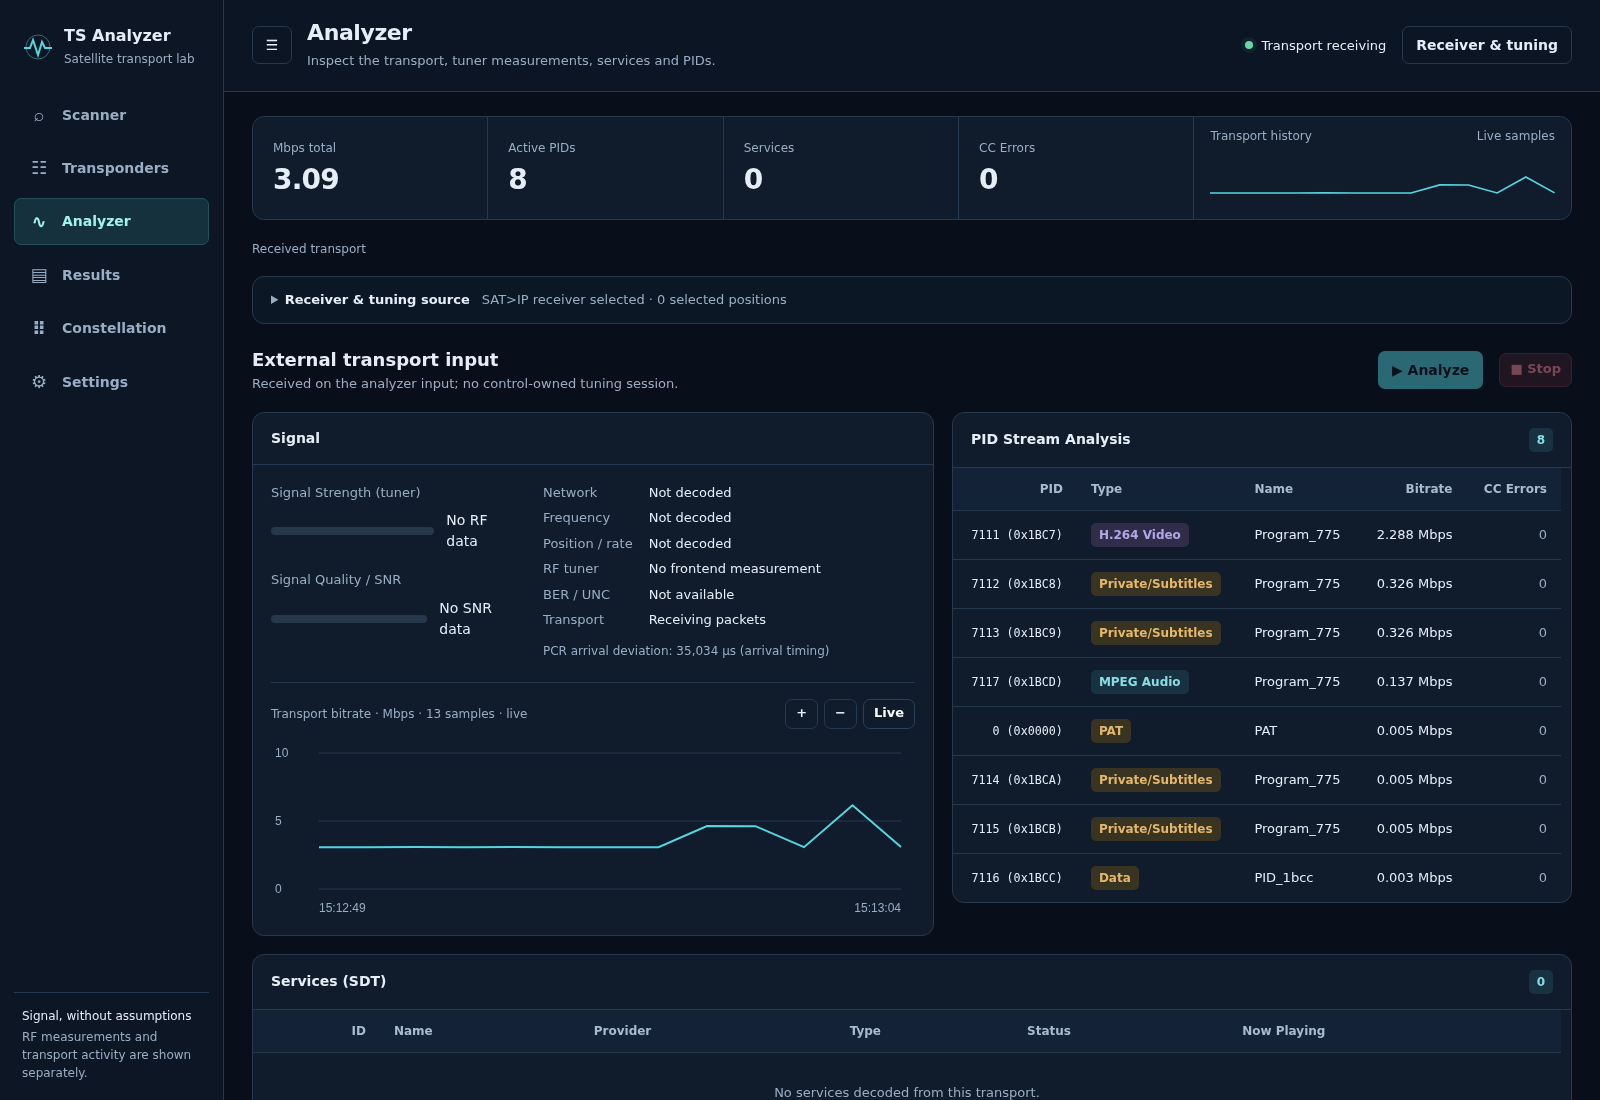
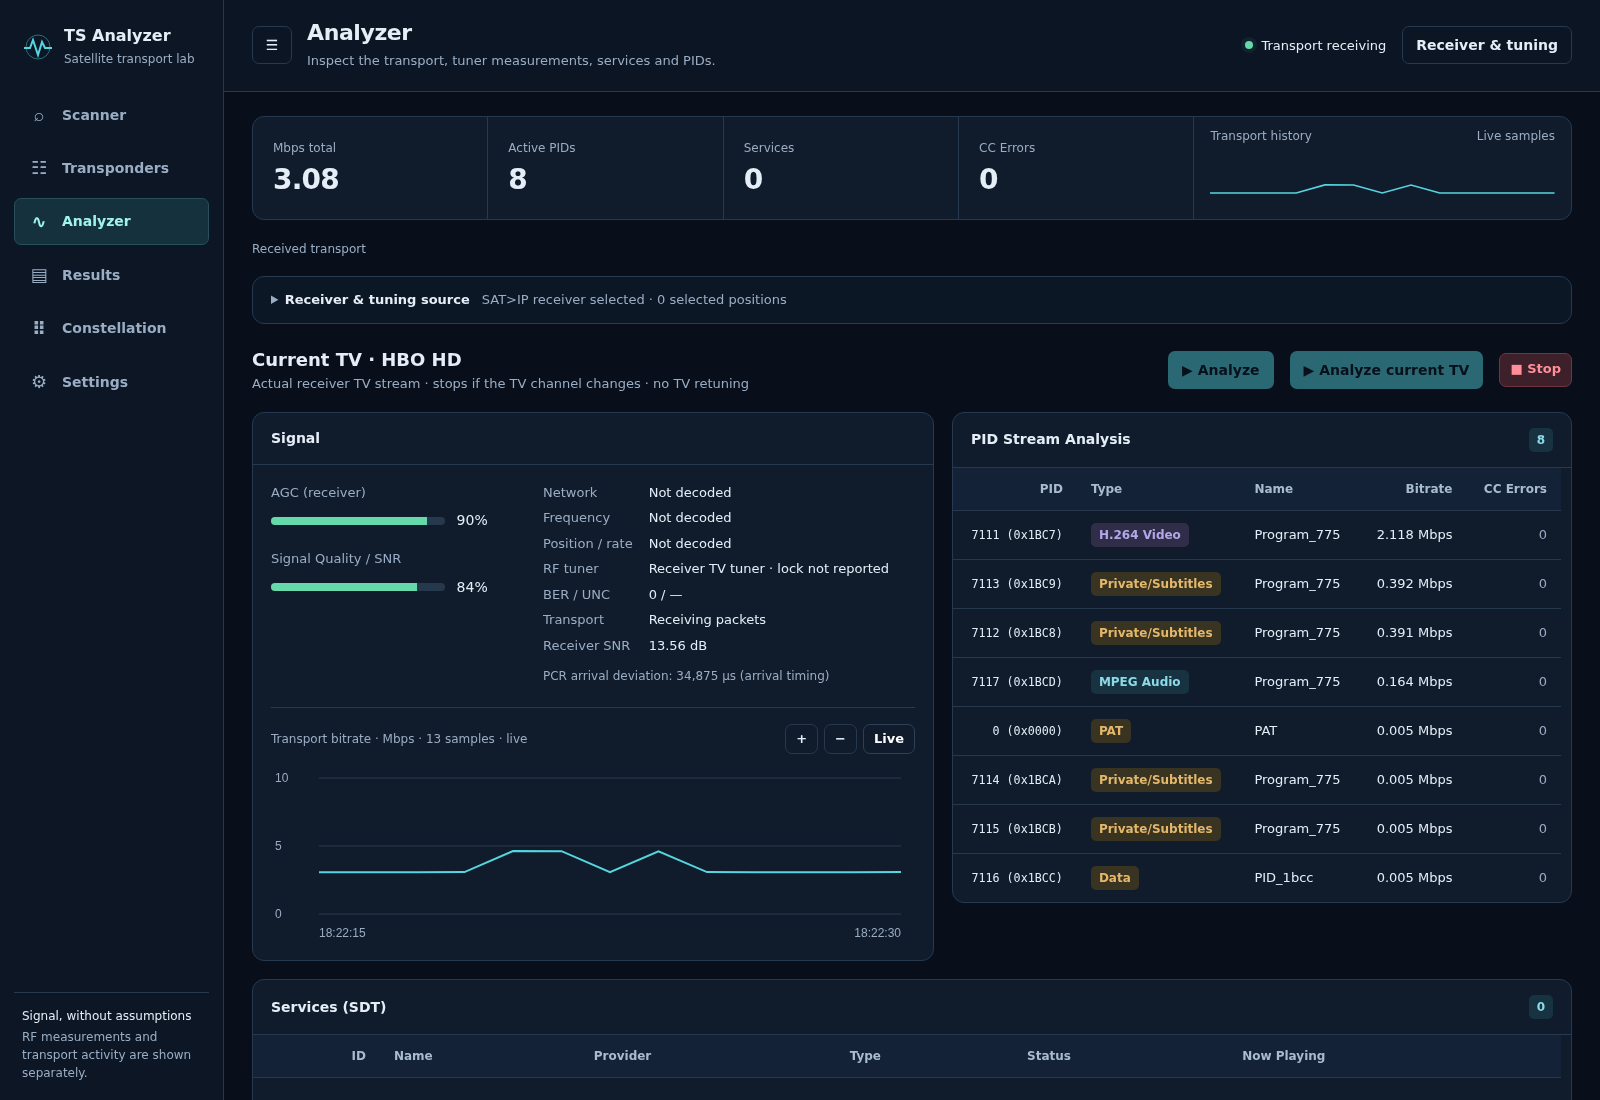
Present real current-TV analysis with receiver measurements

diff --git a/README.md b/README.md
@@ -4,7 +4,7 @@
 
 A television stream can look unstable for several different reasons: reception, tuning, transport errors or the content being carried. TS Analyzer brings those checks into one browser workspace, helping an operator move from choosing a satellite source to inspecting the arriving stream and retaining useful findings.
 
-The workspace keeps reception measurements separate from transport activity. An arriving stream does not automatically mean good radio reception, and an unavailable measurement stays unavailable. The featured capture shows an actual receiver transport stream; RF measurements are unavailable for that input.
+The workspace keeps reception measurements separate from transport activity. An arriving stream does not automatically mean good radio reception, and an unavailable measurement stays unavailable. The featured capture shows an actual current-TV transport stream with the receiver's real SNR, AGC and error readings.
 
 ## Tech stack
 
@@ -25,6 +25,8 @@ The results workspace collects transponder observations, television services and
 Saved findings can be loaded again, edited and exported as JSON for further analysis. The same workspace supports moving from a result into a closer transport inspection without re-entering its tuning details.
 
 ## Examine the transport stream
+
+On an Enigma2 receiver, **Analyze current TV** inspects the programme already being watched without changing the TV channel. Start or stop this input directly in the workspace. If the TV channel changes, analysis stops until started again. This provides a practical single-programme view; scanning a complete satellite transponder uses the separate SAT>IP input.
 
 Bring bitrate, active PIDs, continuity errors and timing observations together. The PID table shows the kinds of video, audio, signalling and other data actually being received. Service and programme details give those readings their content context when present in the source.
 
